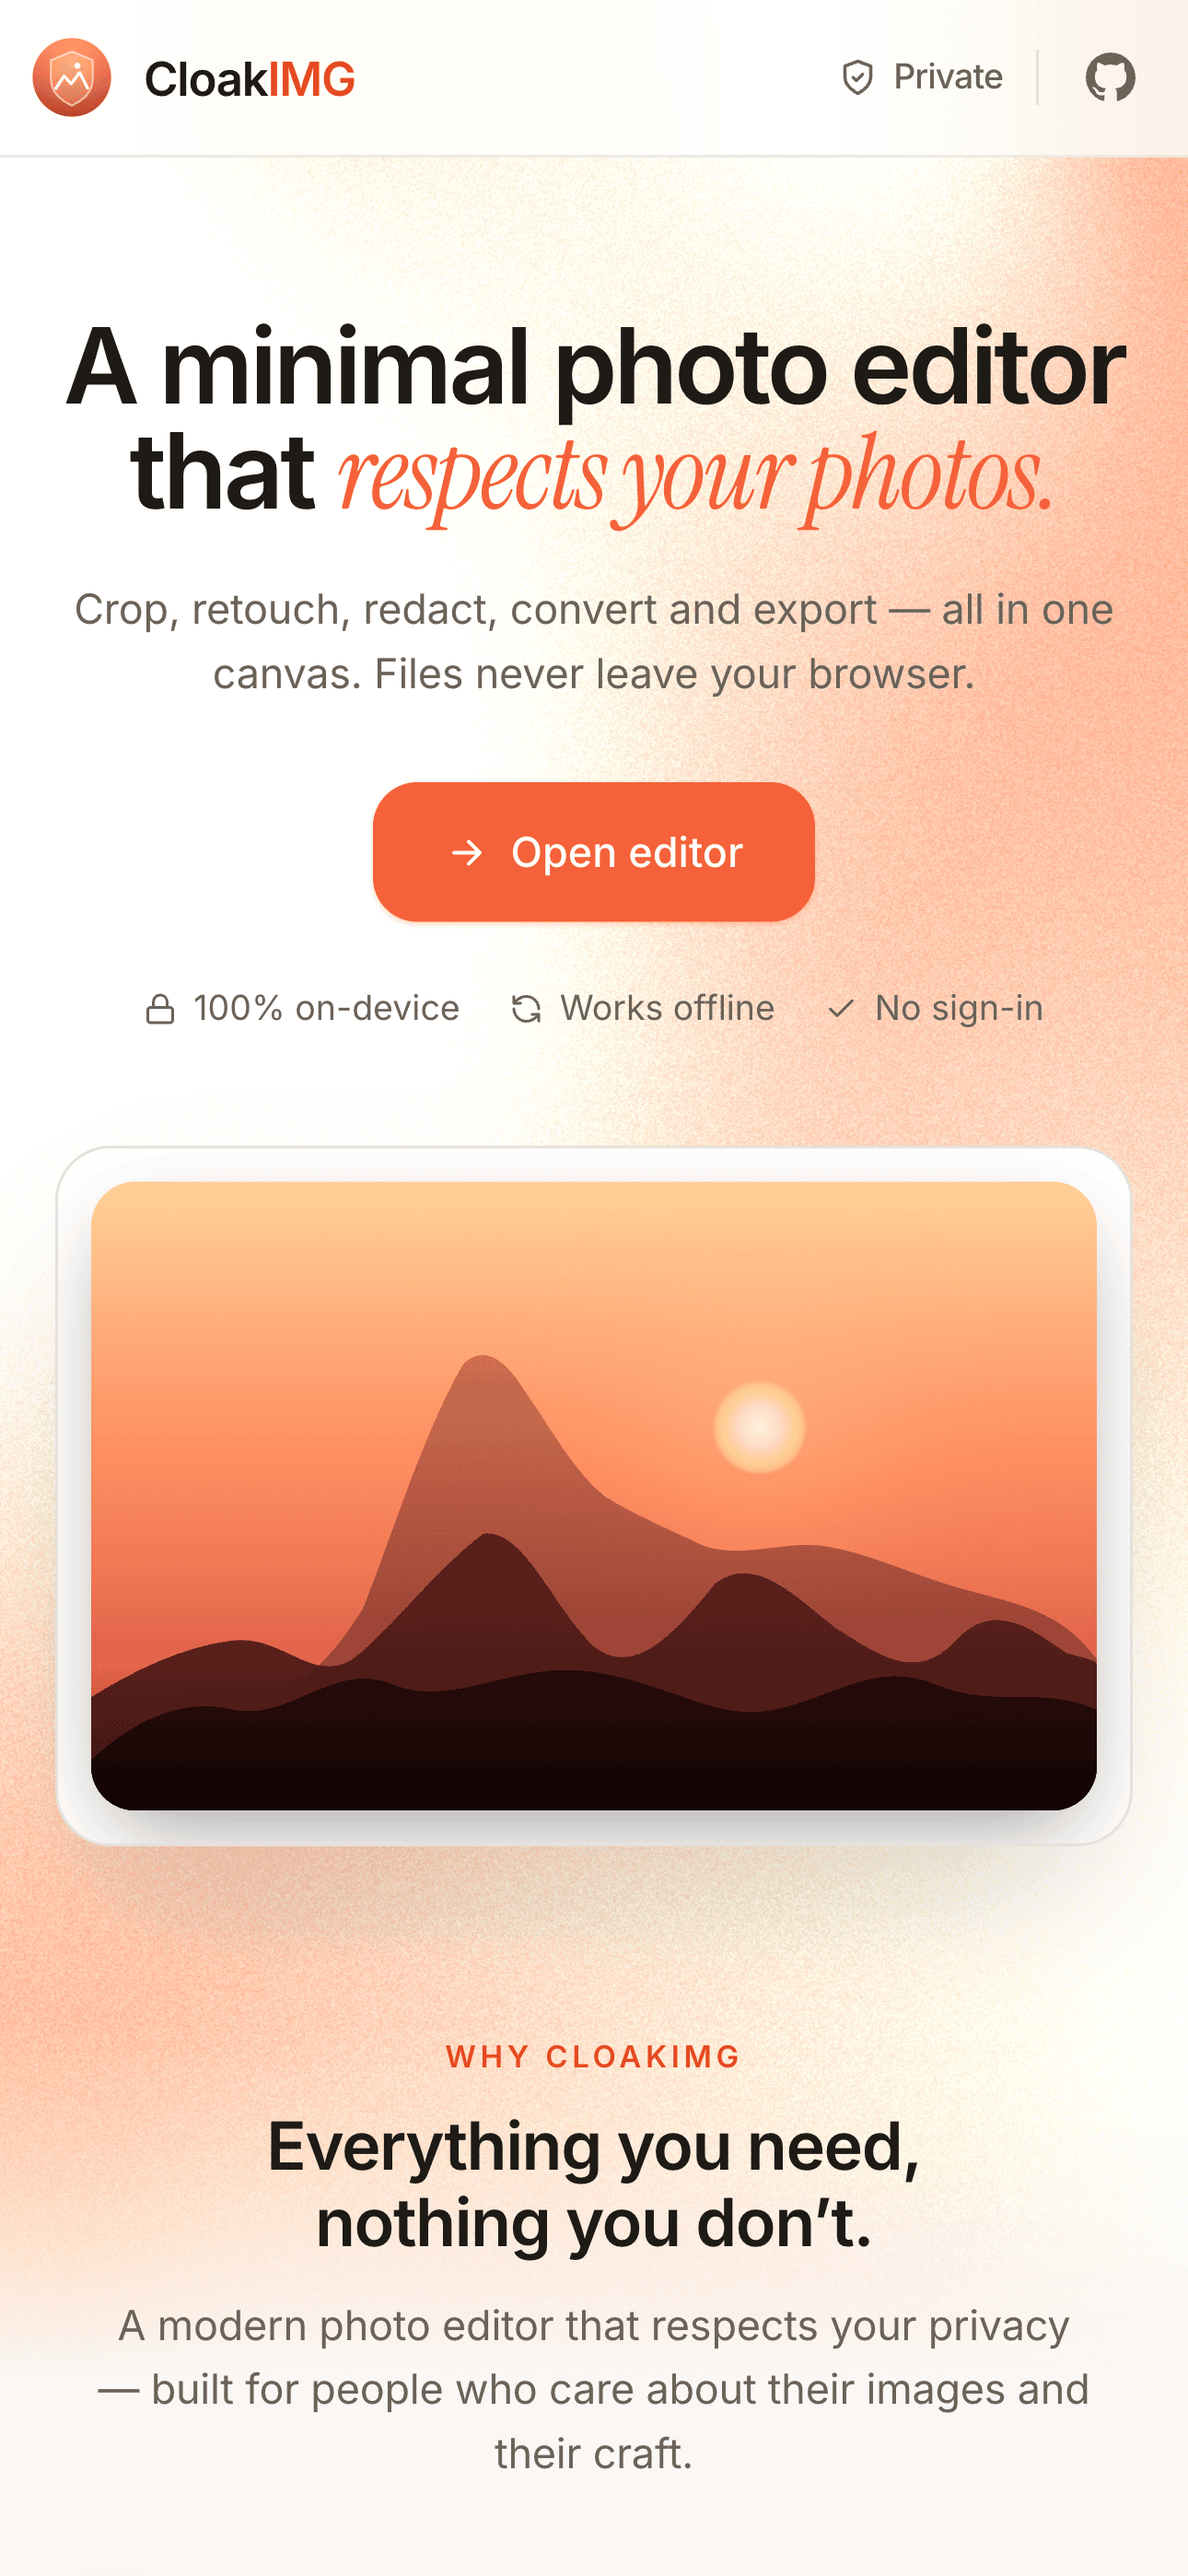
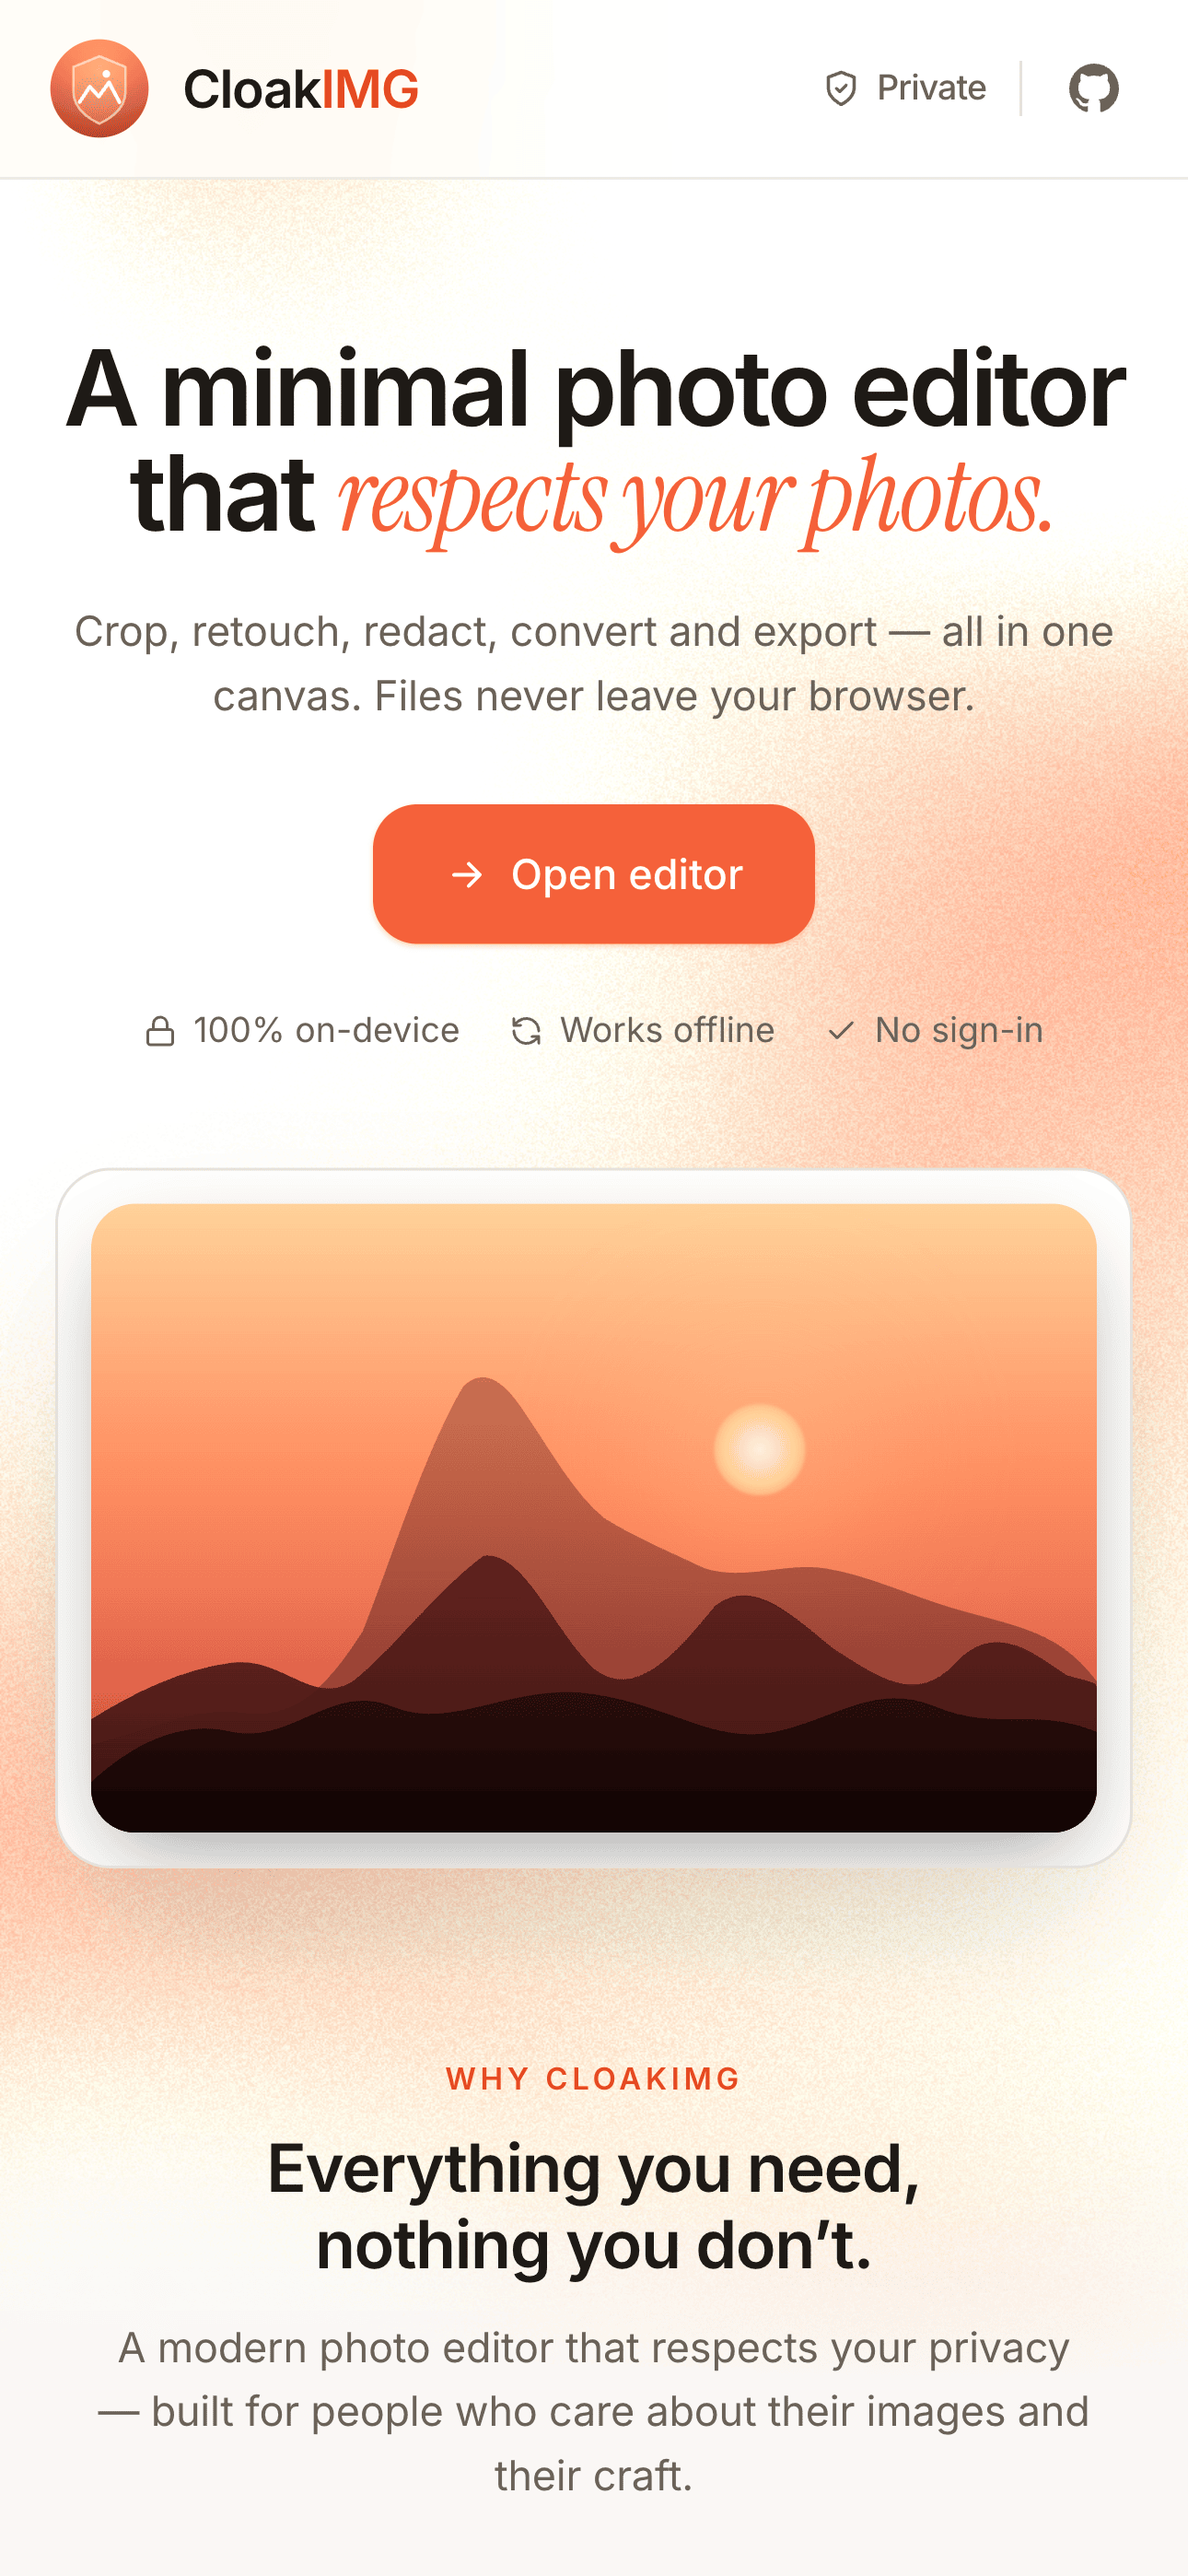
feat: update iPad and iPhone screenshots and refine gradient colors for improved visual consistency

diff --git a/src/editor/TopBar.tsx b/src/editor/TopBar.tsx
@@ -44,29 +44,23 @@ export function TopBar({ onShowFileProps }: TopBarProps) {
   return (
     <>
       <div
-        className={`editor-paper flex shrink-0 items-center border-b border-border bg-surface dark:border-dark-border dark:bg-dark-surface ${
-          isMobile ? "h-14 gap-1.5 px-2.5 py-2.5" : "h-16 gap-3 px-4 py-3"
+        className={`editor-paper flex h-16 shrink-0 items-center border-b border-border bg-surface py-3 dark:border-dark-border dark:bg-dark-surface ${
+          isMobile ? "gap-1.5 px-2.5" : "gap-3 px-4"
         }`}
       >
         <button
           type="button"
           onClick={exit}
           aria-label="Back to start"
-          className="flex cursor-pointer items-center gap-2 border-none bg-transparent p-0 font-[inherit] text-inherit sm:gap-2.5"
+          className="flex cursor-pointer items-center gap-2.5 border-none bg-transparent p-0 font-[inherit] text-inherit"
         >
           <BrandMark
-            size={isMobile ? 30 : 40}
+            size={40}
             style={{
               filter: "drop-shadow(0 2px 6px rgba(245, 97, 58, 0.28))",
             }}
           />
-          <div
-            className="logo-wordmark"
-            style={{
-              fontSize: isMobile ? 15 : 19,
-              letterSpacing: "-0.025em",
-            }}
-          >
+          <div className="logo-wordmark" style={{ fontSize: 19, letterSpacing: "-0.025em" }}>
             Cloak<span>IMG</span>
           </div>
         </button>

diff --git a/src/landing/Header.tsx b/src/landing/Header.tsx
@@ -11,22 +11,14 @@ import { GITHUB_REPO_URL } from "../constants/links";
 
 interface Props {
   right?: ReactNode;
-  compact?: boolean;
 }
 
-export function Header({ right, compact = false }: Props) {
+export function Header({ right }: Props) {
   return (
-    <header
-      className={`sticky top-0 z-50 flex items-center gap-3.5 border-b border-border-soft bg-surface-glass backdrop-blur-2xl backdrop-saturate-150 dark:border-dark-border-soft dark:bg-dark-surface-glass ${
-        compact ? "px-2.5 py-2.5" : "px-4 py-3"
-      }`}
-    >
+    <header className="sticky top-0 z-50 flex items-center gap-3.5 border-b border-border-soft bg-surface-glass px-4 py-3 backdrop-blur-2xl backdrop-saturate-150 dark:border-dark-border-soft dark:bg-dark-surface-glass">
       <div className="flex items-center gap-2.5">
-        <BrandMark size={compact ? 32 : 40} />
-        <div
-          className="logo-wordmark"
-          style={{ fontSize: compact ? 17 : 19, letterSpacing: "-0.025em" }}
-        >
+        <BrandMark size={40} />
+        <div className="logo-wordmark" style={{ fontSize: 19, letterSpacing: "-0.025em" }}>
           Cloak<span>IMG</span>
         </div>
       </div>

diff --git a/src/landing/Landing.tsx b/src/landing/Landing.tsx
@@ -49,7 +49,7 @@ export function Landing({ onStart, onIntent }: Props) {
           with the iOS URL-bar mask. */}
       <Grainient className="grainient-fixed" {...GRAINIENT_MOTION} {...palette} />
       <div className="relative z-1">
-        <Header compact={isPhone} />
+        <Header />
 
         <section className="mx-auto max-w-275 px-5 pt-14 pb-10 text-center sm:px-8 sm:pt-24 sm:pb-20">
           <h1 className="t-hero mx-auto mb-4.5 max-w-205">

diff --git a/src/constants/grainient.ts b/src/constants/grainient.ts
@@ -17,9 +17,9 @@ export const GRAINIENT_LIGHT = {
 } as const;
 
 export const GRAINIENT_DARK = {
-  color1: "#3A2516",
-  color2: "#F5613A",
-  color3: "#1F140A",
+  color1: "#2E1D11",
+  color2: "#C24A2B",
+  color3: "#1A1009",
 } as const;
 
 // Mode-independent motion + saturation knockdown. The brand coral
